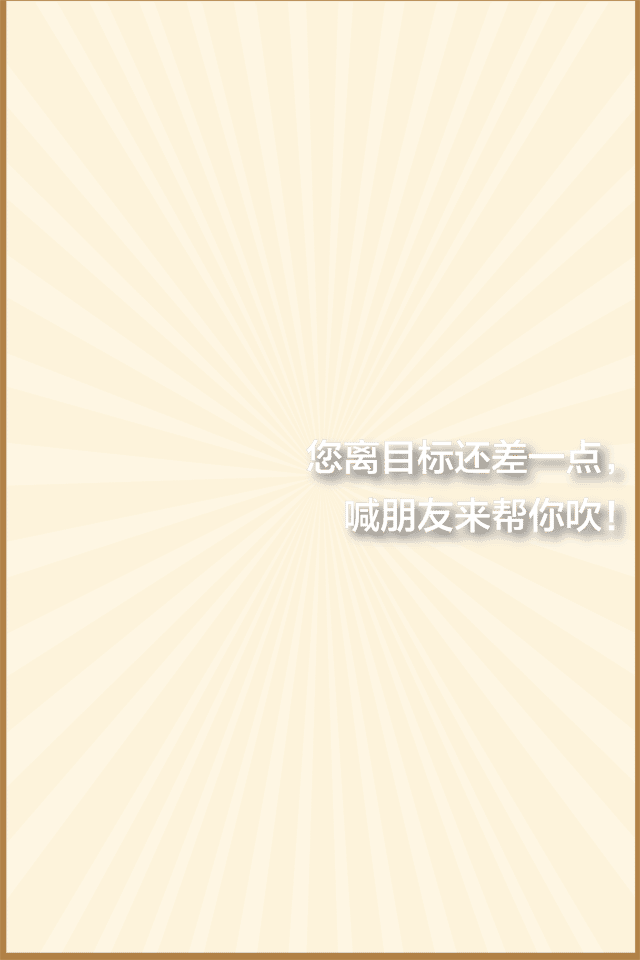
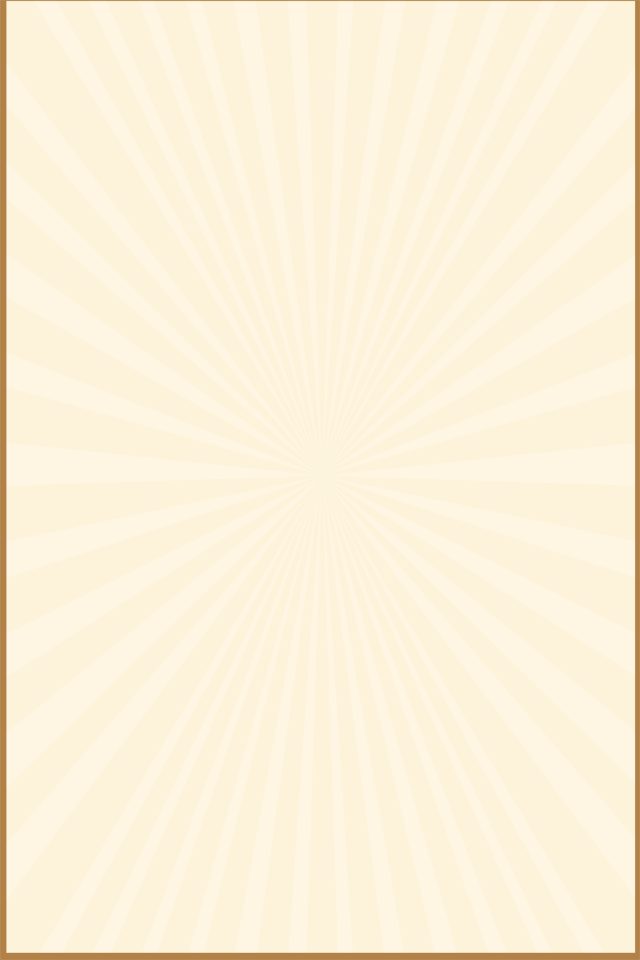
完善

Changed region(s): [[0.4688, 0.4375, 1.0, 0.5938]]

diff --git a/index.html b/index.html
@@ -15,7 +15,7 @@
 <body>
     <!-- 内容页 -->
     <div class="wrap" id="js-wrapper">
-        <div class="wrapper wrapper1 js-wrapper1 hide">
+        <div class="wrapper wrapper1 js-wrapper1">
             <div class="btn btn-start js-start">开始游戏</div>
             <div class="btn btn-explain js-explain">活动说明</div>
         </div>
@@ -39,8 +39,9 @@
             <div class="btn btn-help js-help"><div class="pt8">喊人帮忙</div></div>
             <div class="btn btn-explain btn-explain2 js-explain"><div class="pt8">活动说明</div></div>
         </div>
-        <div class="wrapper wrapper5 js-wrapper5 ">
+        <div class="wrapper wrapper5 js-wrapper5 hide">
             <p class="p1">目前累计<span class="js-help-h2"></span>米</p>
+            <div class="prize js-prize">您离目标还差一点，<br/>喊朋友来帮你吹！</div>
             <div class="lou">
                 <div class="pc js-help-pc"><div class="pc-h1"><span class="js-pc-h1"></span>米</div></div>
             </div>

diff --git a/resource/js/main.js b/resource/js/main.js
@@ -262,8 +262,17 @@ $(function() {
 	function switch5() {
 		get_help_message();
 		$(".js-wrapper1").fadeOut(300, function() {
+			if(Number(Jser.user.prize)){
+				$(".js-prize").html("恭喜您已中奖，<br/>请等待工作人员联系");
+			}else{
+				$(".js-prize").html("您离目标还差一点，<br/>喊朋友来帮你吹！");
+			}
 			$(".js-wrapper5").fadeIn(300, function() {
-
+				if (Number(Jser.user.prize) && Number(Jser.user.mobile)) {
+					setTimeout(function() {
+						$(".js-wrapper-tel").show();
+					}, 2000);
+				}
 			});
 		});
 	}
@@ -295,9 +304,6 @@ $(function() {
 				}
 				$(".js-pc").css("top", 200 - h * 0.375);
 				shareTitle(data.message.height);
-				setTimeout(function() {
-					$(".js-wrapper-tel").show();
-				}, 2000);
 			} else {
 				$(".js-other-h2").html(data.message.total_height);
 				$(".js-help-pc").css("top", 200 - h * 0.375);

diff --git a/resource/css/main.css b/resource/css/main.css
@@ -297,3 +297,12 @@ body{
   text-align: center;
   line-height: 18px;
 }
+.wrapper5 .prize{
+  position: absolute;
+  top: 45.43%;
+  right: 0;
+  font-size: 1.2em;
+  color: #fff;
+  text-align: right;
+  text-shadow: #000 3px 3px 10px;
+}
